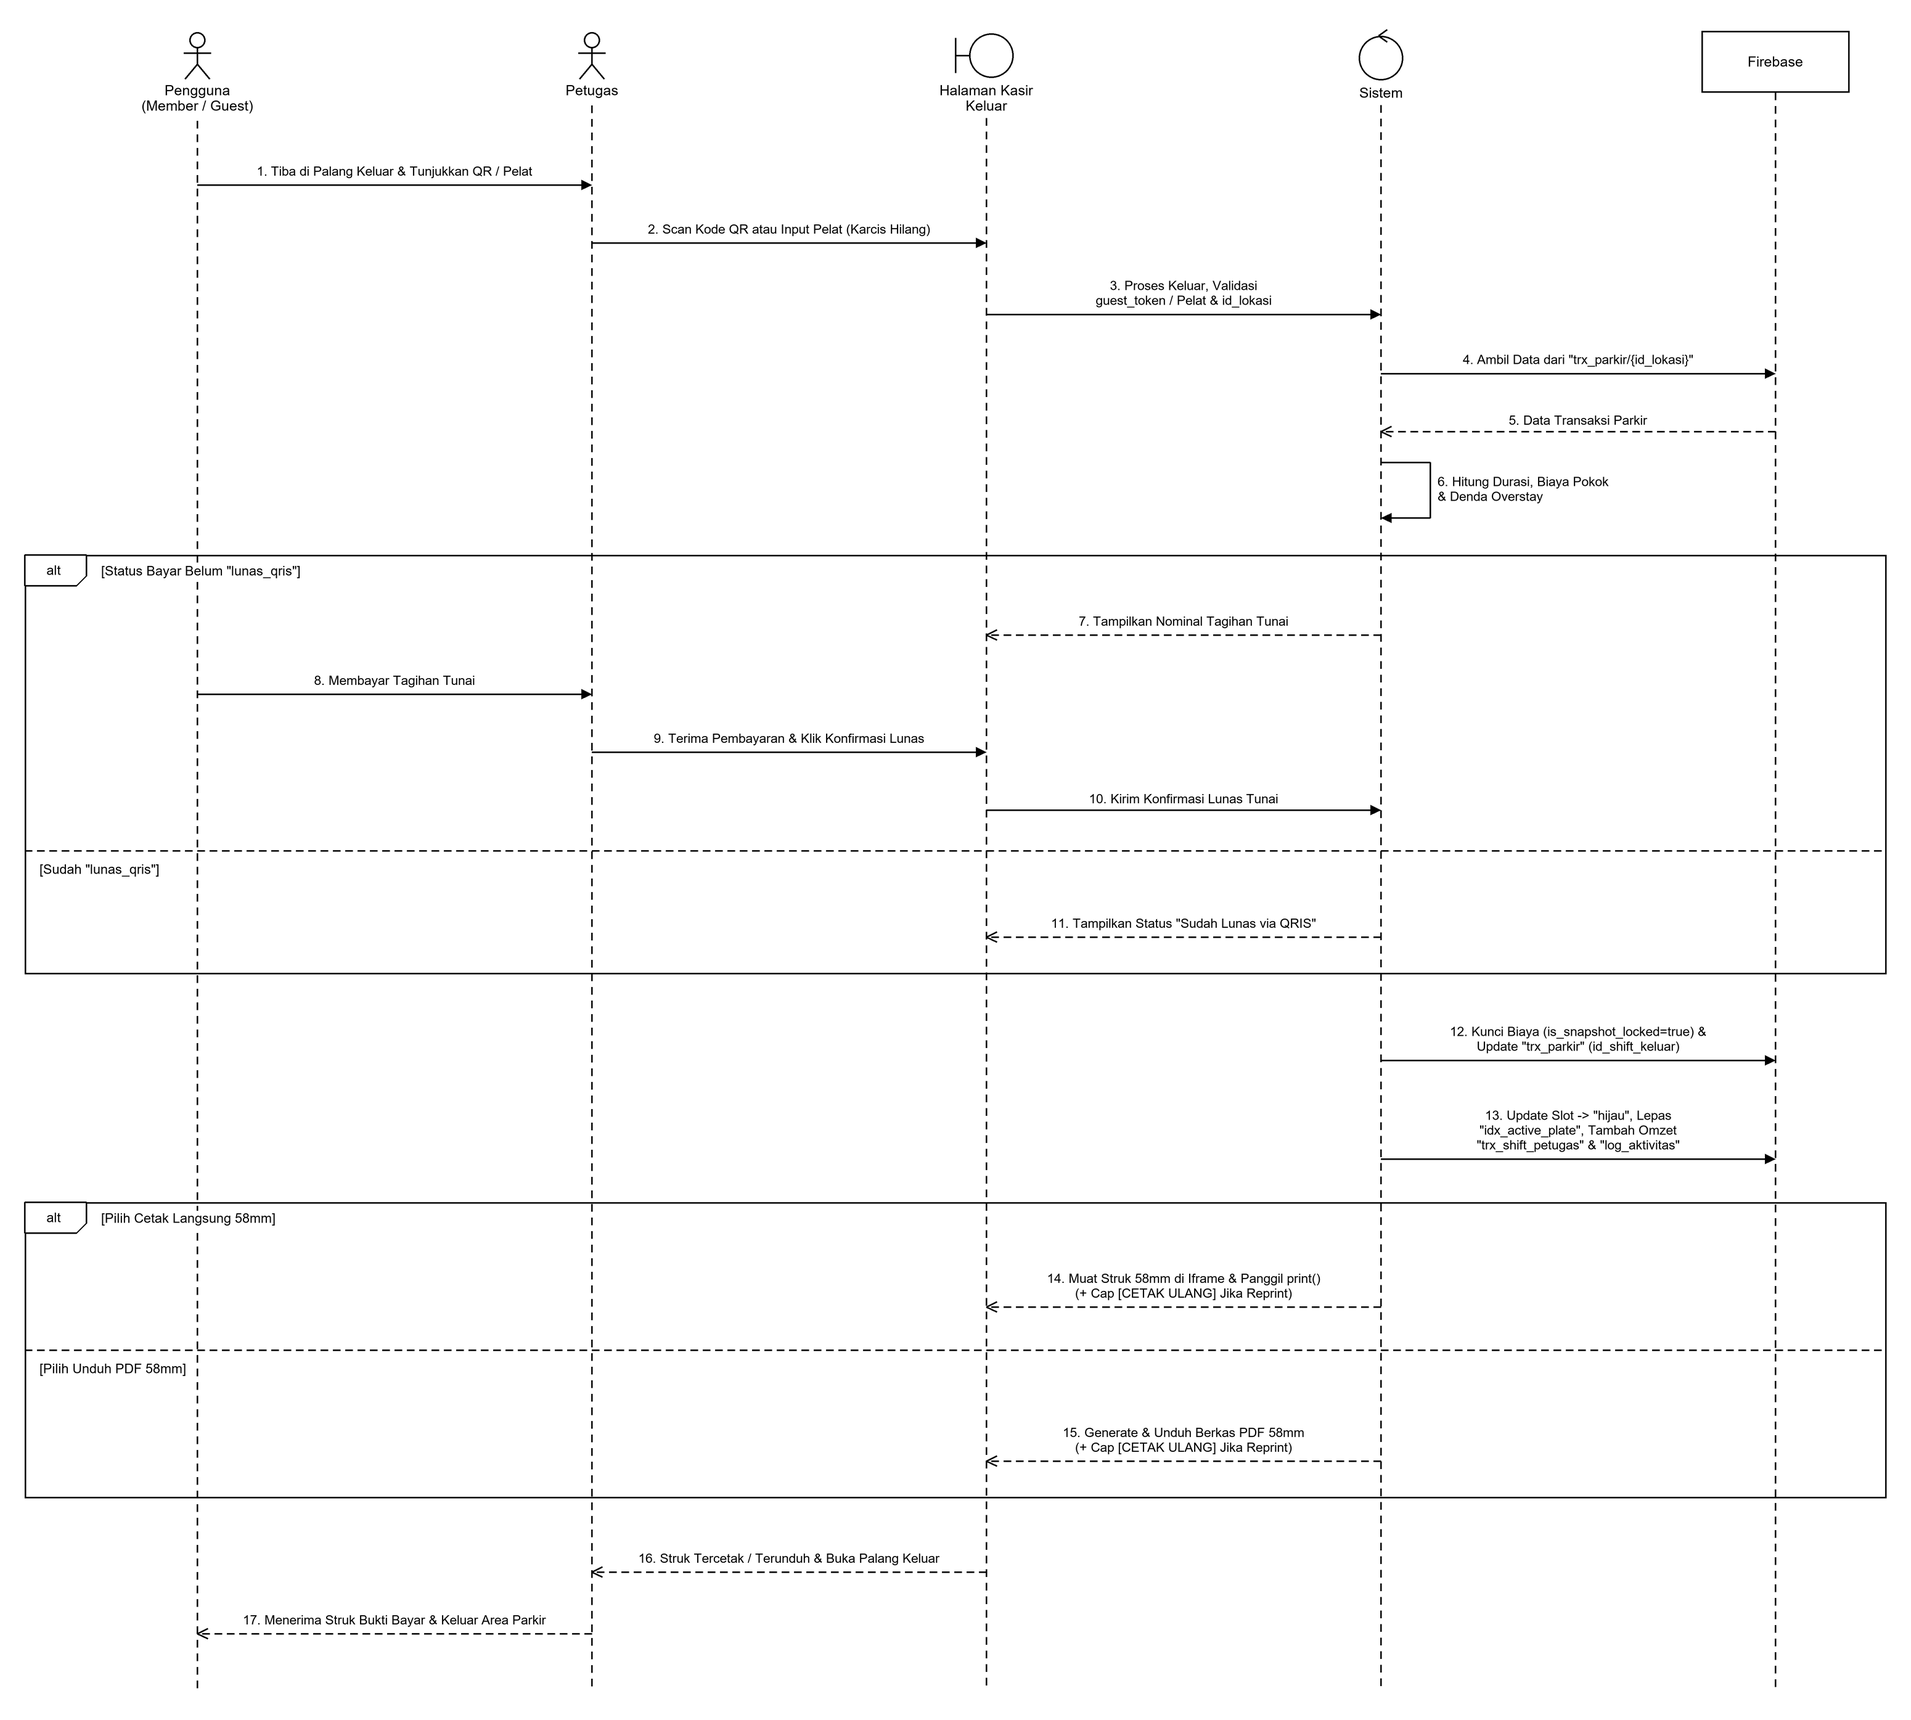
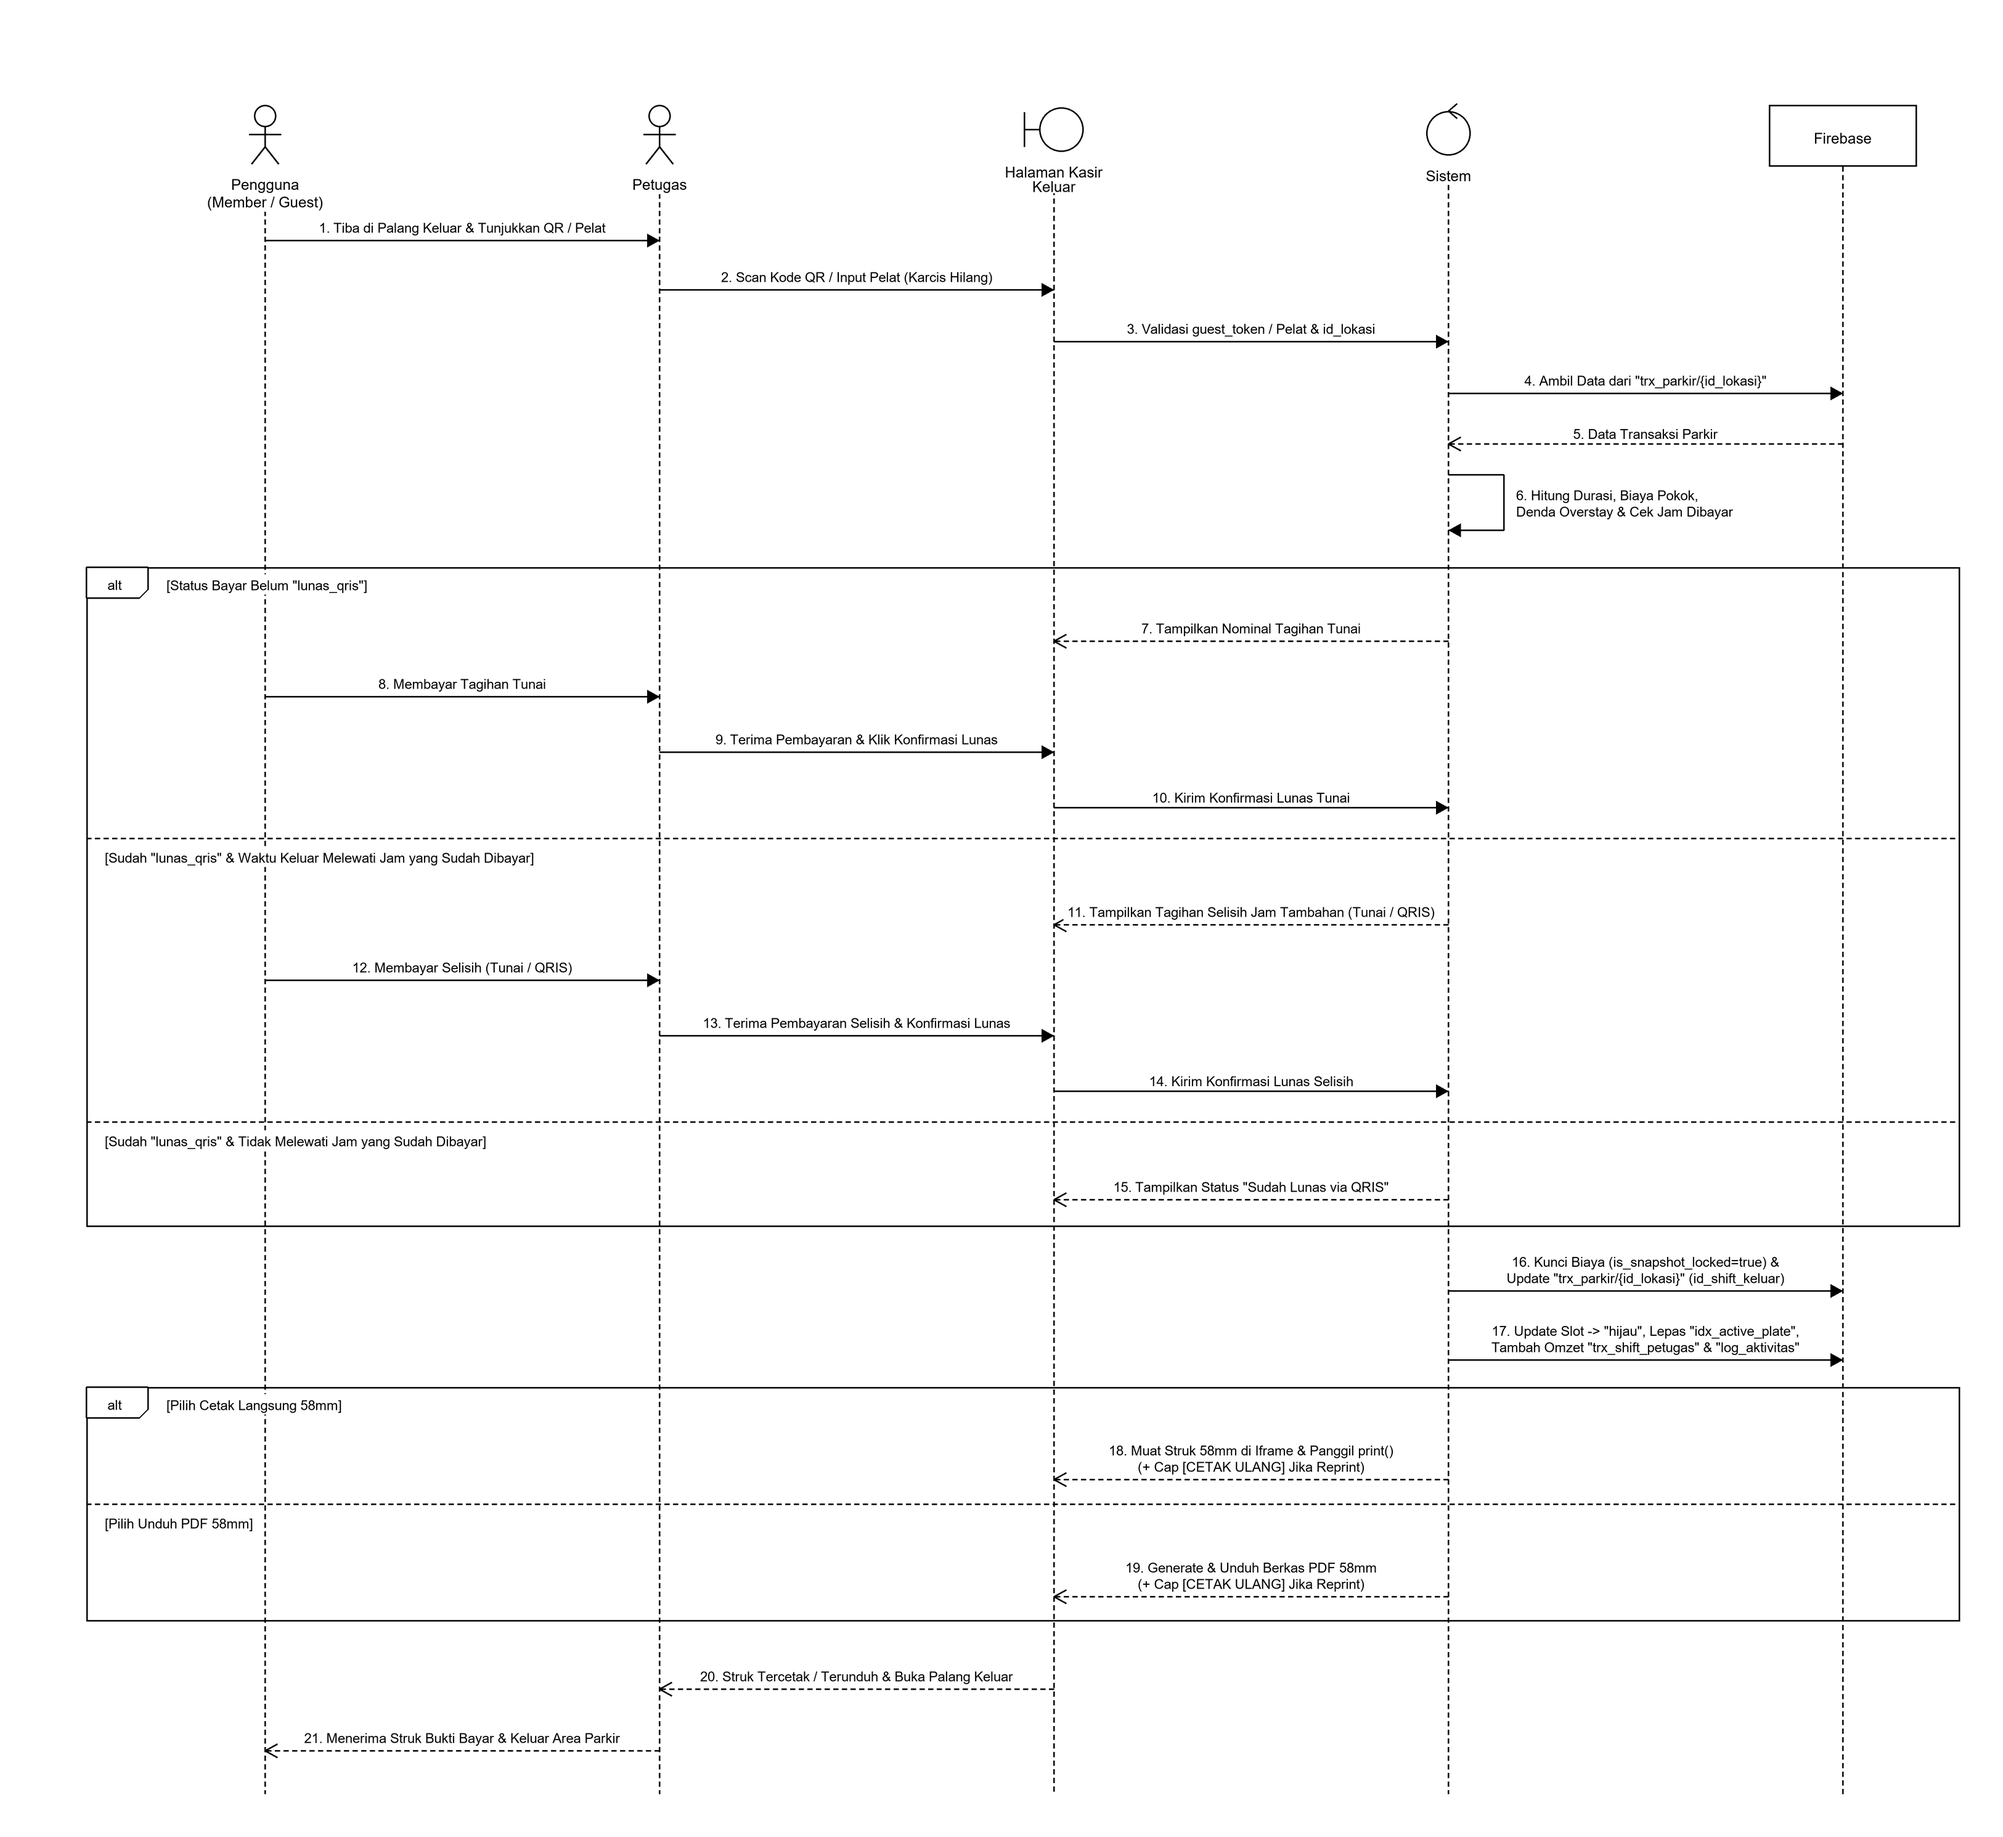
revisi sequence keluar gerbang tambah alt selisih jam qris rasio kompak

diff --git a/docs/PROGRESS.md b/docs/PROGRESS.md
@@ -69,7 +69,7 @@ Dokumen ini memantau status pengerjaan setiap butir revisi hasil sidang Quality 
 | **13/13** | `Diagram ParkSpot UKK-Use Case (Revisi)` | 🟢 Selesai | 🟢 Selesai | 🟢 PASS (Batch ACC) | 6 aktor (termasuk Midtrans Sandbox), Opsi 1 Pindai QR Booking, fitur shift lengkap |
 | **Bonus 1** | `Diagram ParkSpot UKK-DFD LEVEL 0 (Revisi)` *(Update teks Petugas)* | 🟢 Selesai | 🟢 Selesai | 🟢 PASS (Batch ACC) | Ganti "Pembaruan Status Slot Overstay" $\rightarrow$ "Pindai QR Booking / Input Pelat Masuk" |
 | **Bonus 2** | `Diagram ParkSpot UKK-Activity Keluar Gerbang & Print Struk (Revisi)` | 🟢 Selesai | 🟢 Selesai | 🟢 PASS (Batch ACC) | Tambah keputusan "Waktu keluar melewati jam yang sudah dibayar?" (tagih selisih tunai/QRIS) |
-| **Bonus 3** | `Diagram ParkSpot UKK-Sequence Keluar Gerbang & Cetak Struk (Revisi)` | 🟡 Sedang Dikerjakan | 🟡 Sedang Dikerjakan | 🔴 Antre | Tambah alt "Waktu keluar melewati jam yang sudah dibayar?" (sinkron Activity, rasio kompak <= 1.4x) |
+| **Bonus 3** | `Diagram ParkSpot UKK-Sequence Keluar Gerbang & Cetak Struk (Revisi)` | 🟢 Selesai | 🟢 Selesai | 🟢 PASS (Batch ACC) | 5 lifeline, 1..21 urut, rasio H/W 0.92, alt selisih jam QRIS, sinkron Activity |
 
 ---
 
